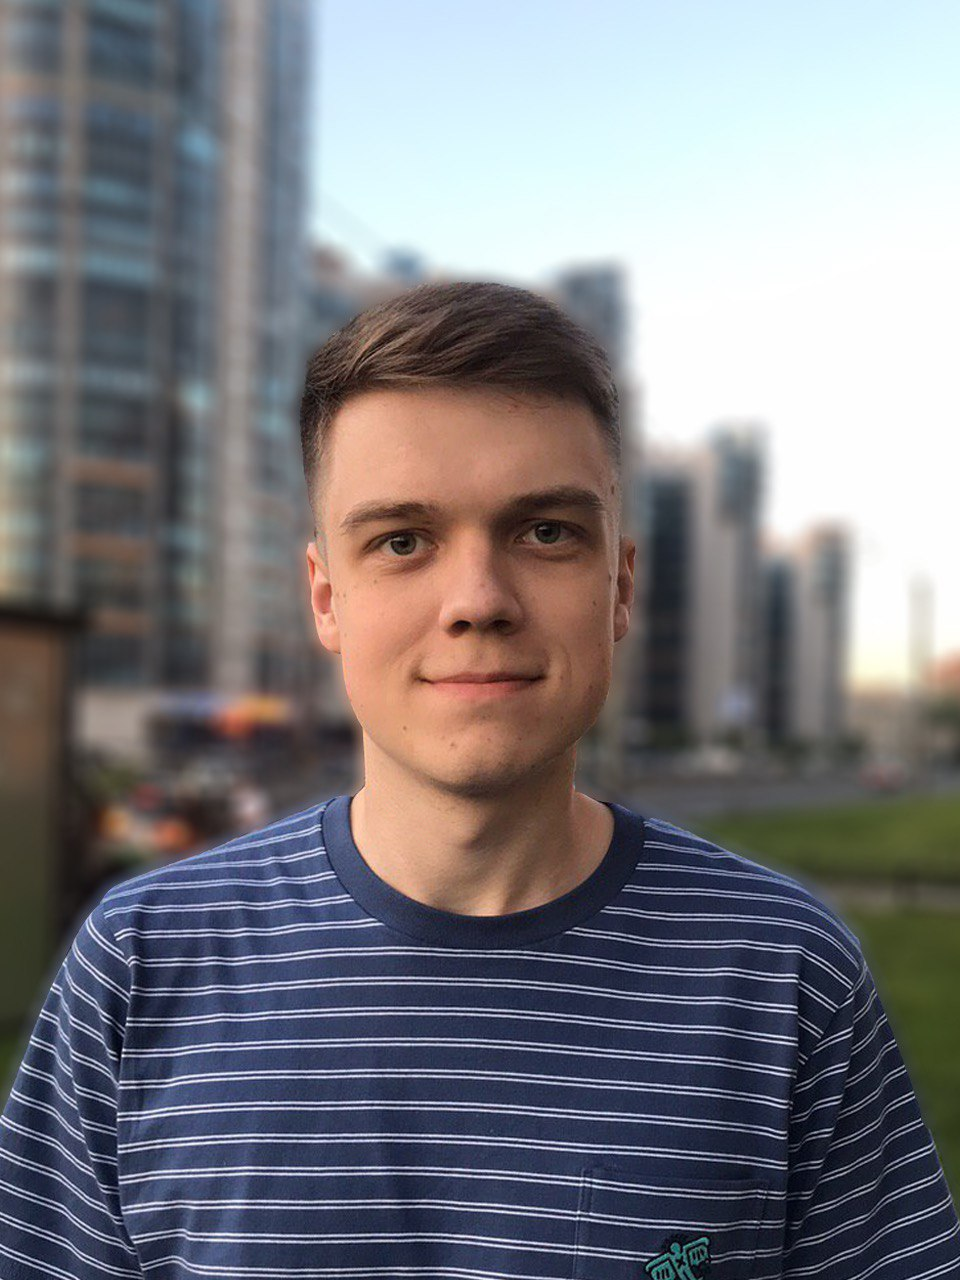
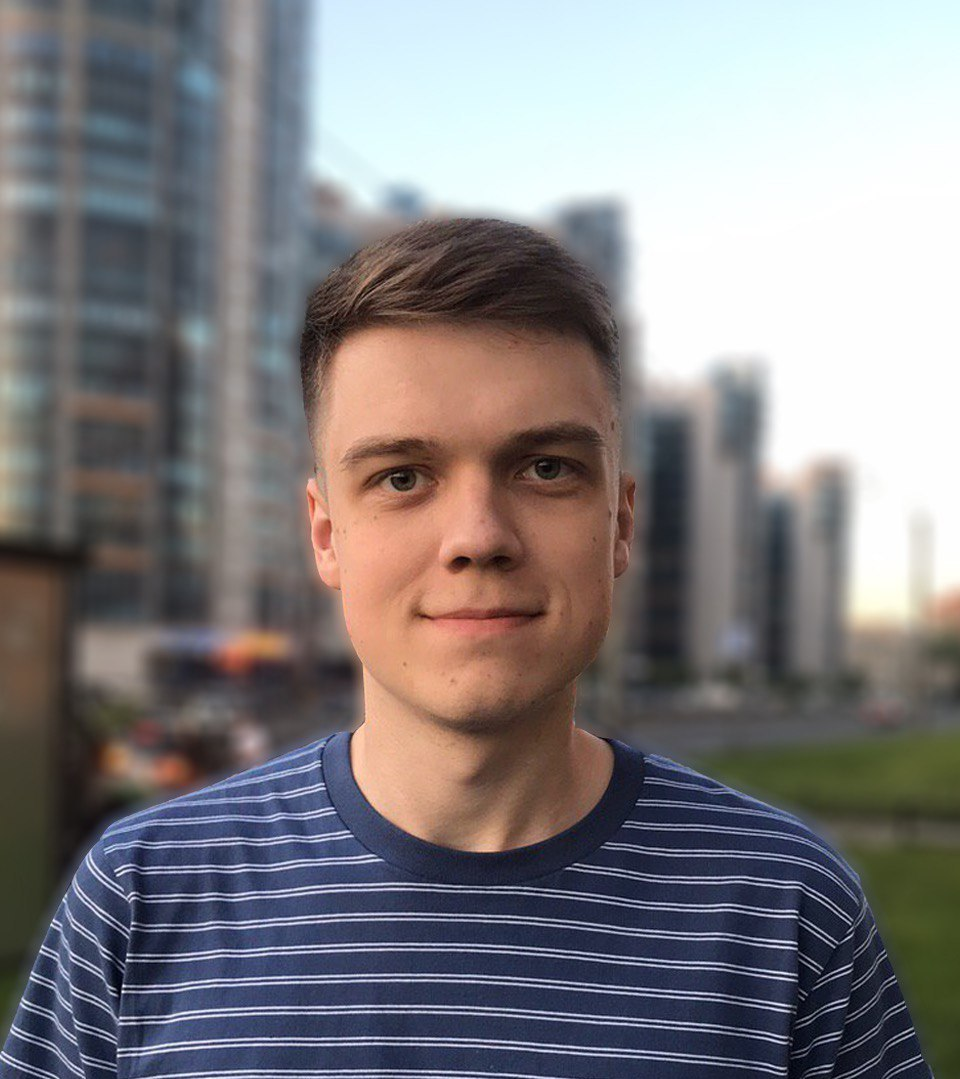
бэкграунд и фото апдейт

diff --git a/index.html b/index.html
@@ -11,7 +11,7 @@
     <script src="scrollreveal.min.js"></script>
     <script src="textAppearAnim.js" defer></script>
     <script src="three.r95.min.js"></script>
-    <script src="vanta.fog.min.js"></script>
+    <script src="vanta.halo.min.js"></script>
     <script src="backgroundAnimation.js" defer> </script>
   </head>
   <body>
@@ -36,7 +36,7 @@
     <section class="intro">
       <h2 class="subheading" id="subheading">Обо мне</h2>
       <figure>
-          <img class ="user-image" src="portfolio-images/files/artyomschukin.jpeg" width="30%" height="30%" alt="Фотография Щукина Артема">
+          <img class ="user-image" src="portfolio-images/img/artyomschukin.jpeg" width="30%" height="30%" alt="Фотография Щукина Артема">
       </figure>
       <div class="container" id="description">
       <h3>Пара слов о себе</h3>

diff --git a/style.css b/style.css
@@ -91,9 +91,9 @@ header {
 }
 
 .intro {
-  margin: 0 0 15%;
+  margin: 0 0 27%;
   background-color: #ffffff;
-  font-color: black;
+  color: black;
 }
 
 .subheading {
@@ -121,6 +121,12 @@ header {
 
 .intro p {
   margin: 0 0 32px;
+}
+
+.skills {
+  margin-left: 10%;
+  margin-right: 10%;
+  margin-bottom: 25%;
 }
 
 .skills-list {
@@ -153,7 +159,7 @@ header {
   padding: 0;
   height: 14px;
   font-size: 0;
-  font-color: black;
+  color: black;
   background-color: #ffffff;
   border: 1px solid #86c3fa;
   border-radius: 8px;
@@ -168,7 +174,7 @@ header {
 
 .portfolio {
   background-color: #ffffff;
-  font-color: black;
+  color: black;
 }
 
 .projects {
@@ -204,7 +210,7 @@ header {
 .page-footer {
   padding: 40px 0;
   background-color: #ffffff;
-  font-color: black;
+  color: black;
 }
 
 .page-footer a {
